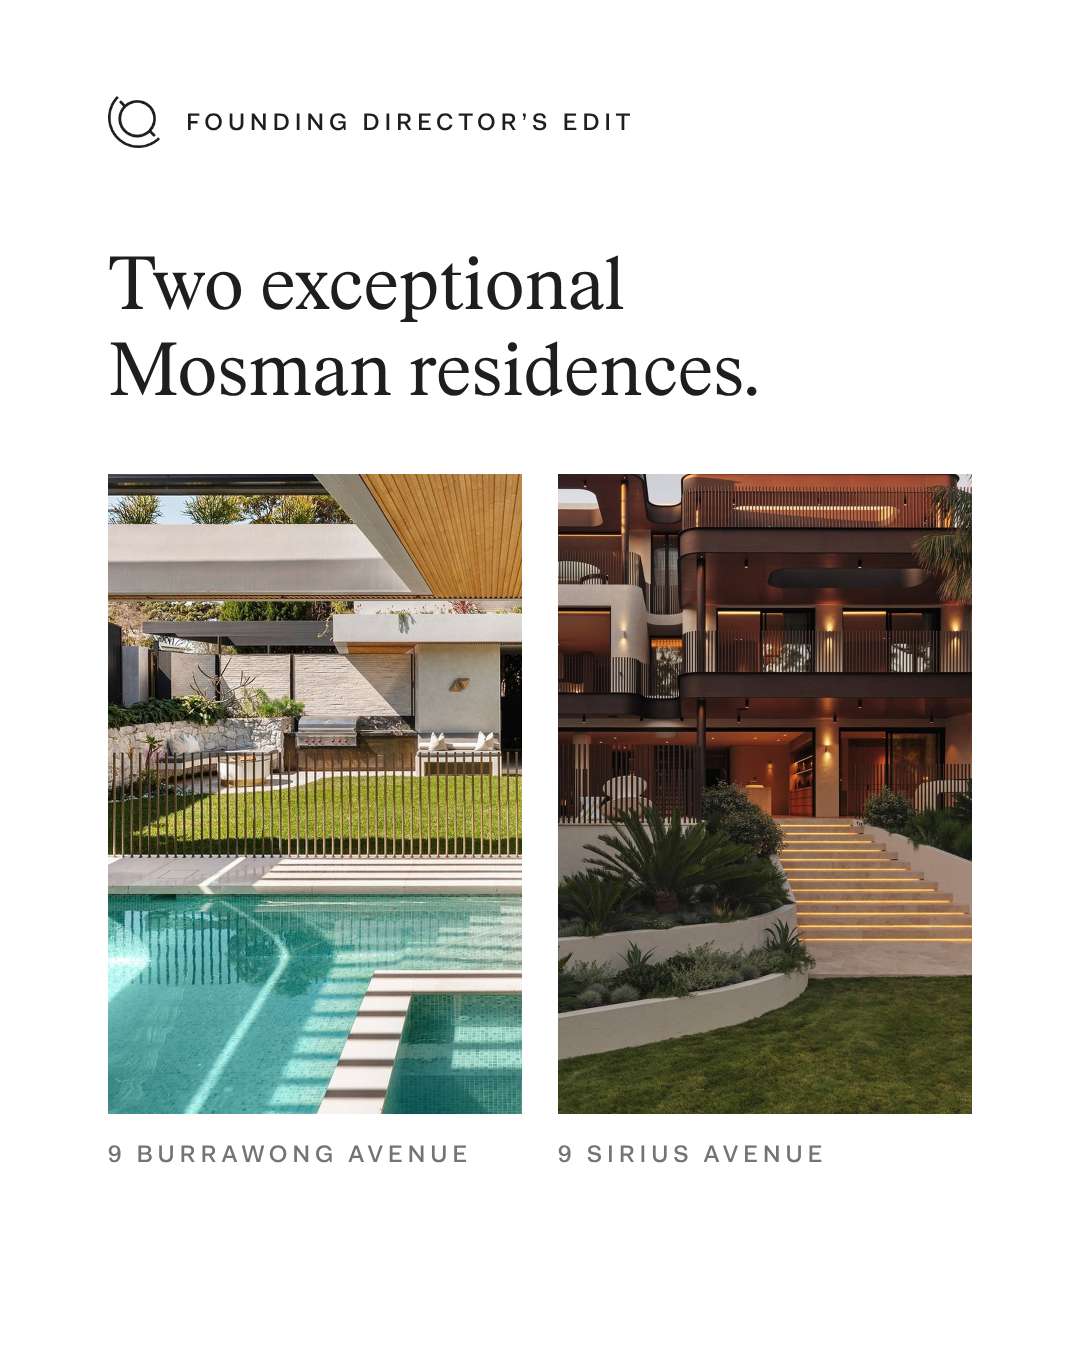
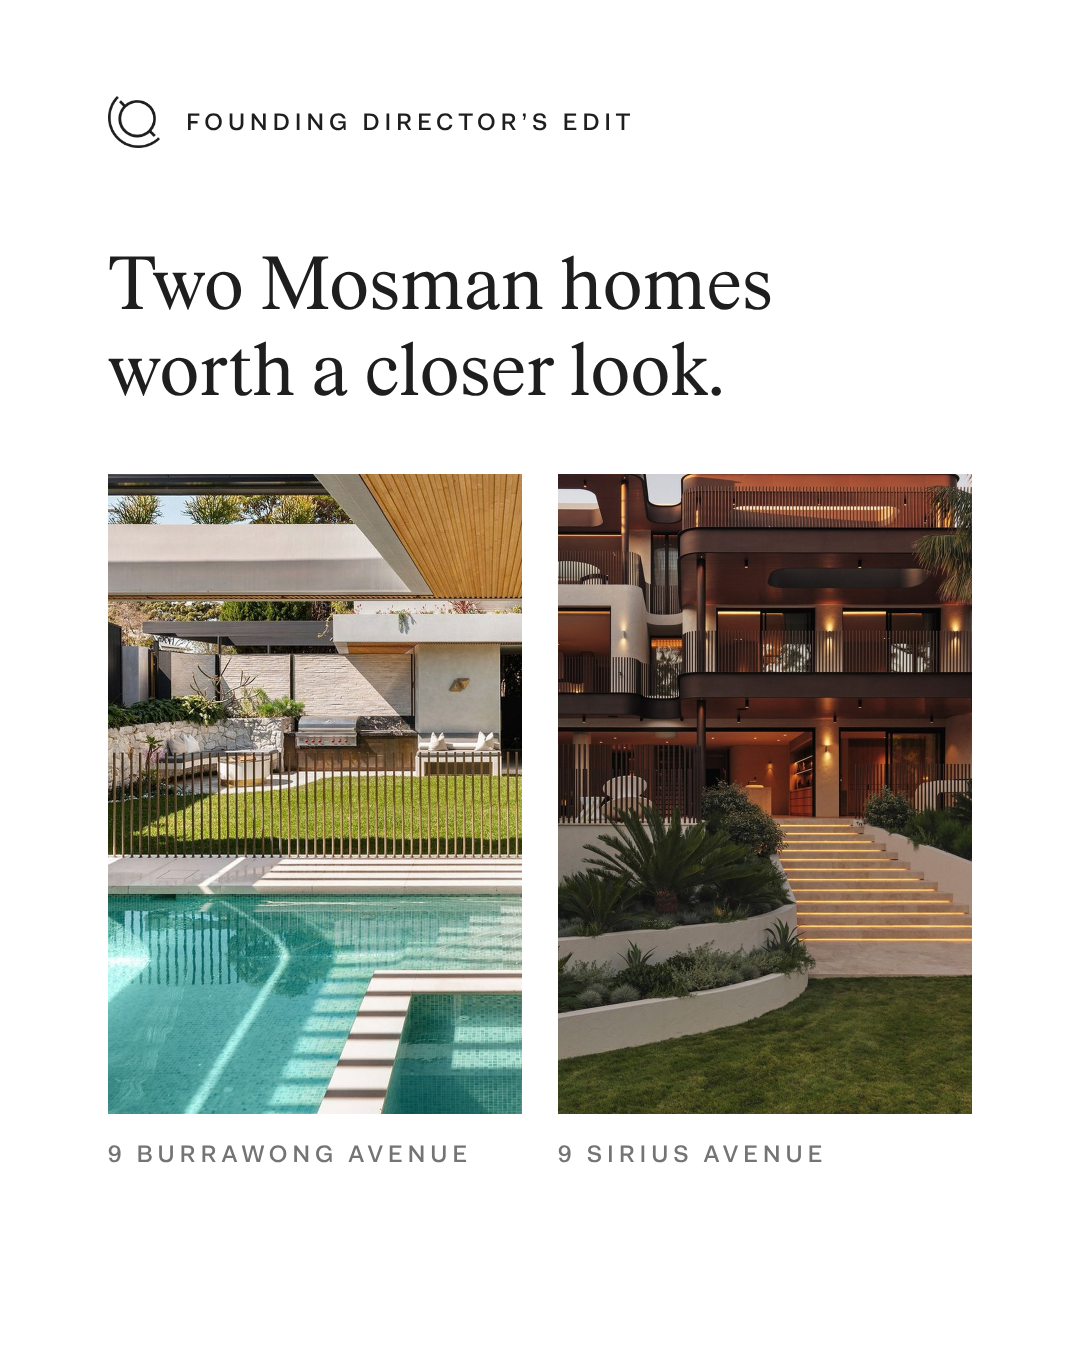
Founding Director's Edit carousel: final copy (value over price narrative)
Same v5 type system; each sentence on cards 2, 4, 5 and 8 starts a new line.

Claude-Session: https://claude.ai/code/session_01JwaQGF29hCT2wGxLRb5jt9

Changed region(s): [[0.0917, 0.1867, 0.7028, 0.3111]]

diff --git a/founding-directors-edit/2026-11-carousel/caption.md b/founding-directors-edit/2026-11-carousel/caption.md
@@ -8,16 +8,17 @@ Layout follows the Atlas feed carousels in Canva (Life and Local, Meet the Team,
 Type system: one serif size (Rhymes Text 72px) and one label size (Fakt 24px caps) on every card.
 Length rules: text-only cards (2, 5, 8) are 80-95 characters (4 lines); headlines are max 48 characters (2 lines); labels max 32 characters.
 
-1. Where I'm seeing opportunity. / A note from Michael Coombs
-2. Some of the most compelling opportunities are in homes that would be difficult to recreate.
+1. Where I'd look for value today. / A note from Michael Coombs
+2. Opportunity isn't always about a lower price. Sometimes it's what would take years to recreate.
 3. The value of what's already built. / 9 Burrawong Avenue, Mosman
-4. Burrawong alone took six years to create. / Designed by McNally Architects
-5. It's worth considering what it would take to achieve the same result, in time and cost.
-6. I expect the market to remain relatively steady. / Looking ahead
-7. Two exceptional Mosman residences. / 9 Burrawong Avenue / 9 Sirius Avenue
-8. "Recognising the right property, understanding its value and making an informed decision." / Michael Coombs, Founding Director / Link in bio
+4. Two years to plan. Four years to build. / Designed by McNally Architects
+5. What would it cost to recreate this today? And what is six years of your time worth?
+6. I expect a relatively steady year ahead. / Looking ahead
+7. Two Mosman homes worth a closer look. / 9 Burrawong Avenue / 9 Sirius Avenue
+8. "It's not about timing the market. It's about recognising the right property and its value." / Michael Coombs, Founding Director / Link in bio
 
-Cards 5, 6 and 8 reword Michael's approved email lines; confirm he's happy with them before posting.
+Line breaks on cards 2, 4, 5 and 8 are hand-set so each sentence starts a new line.
+Card 3 is Michael's wording; the rest are reworded or adapted from his approved position. Card 8 is presented as a direct quote, so Michael must approve it before posting.
 
 ## Caption
 
